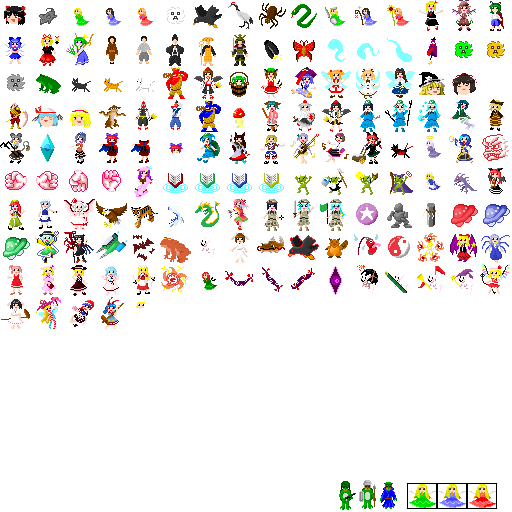
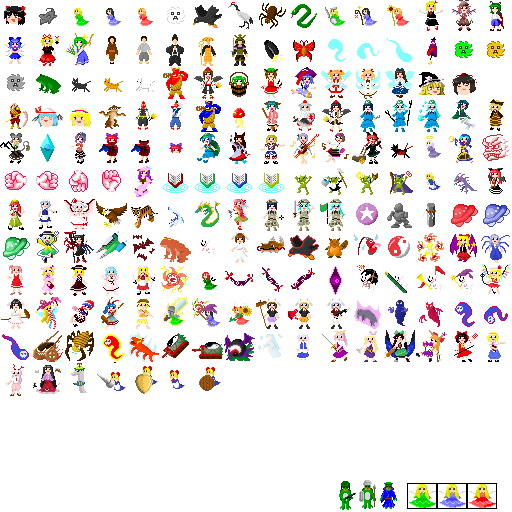
도트 이미지 추가

Changed region(s): [[0.0, 0.5625, 1.0, 0.7812]]

diff --git a/th_crawl/texture.cpp b/th_crawl/texture.cpp
@@ -281,6 +281,61 @@ textures img_mons_support_rabbit(&texture_monster01, 141, 255);
 textures img_mons_magic_rabbit(&texture_monster01, 142, 255);
 
 
+textures img_named_seiran(&texture_monster01, 147, 255);
+textures img_named_ringo(&texture_monster01, 148, 255);
+textures img_mons_fairy_green_hero(&texture_monster01, 149, 255);
+textures img_mons_fairy_green_socerer(&texture_monster01, 150, 255);
+textures img_mons_fairy_green_himawari(&texture_monster01, 151, 255);
+textures img_mons_moon_rabbit_attack(&texture_monster01, 152, 255);
+textures img_mons_moon_rabbit_supporter(&texture_monster01, 153, 255);
+textures img_mons_moon_rabbit_elite(&texture_monster01, 154, 255);
+textures img_mons_mac(&texture_monster01, 155, 255);
+textures img_mons_nightmare(&texture_monster01, 156, 255);
+textures img_mons_lunatic(&texture_monster01, 157, 255);
+textures img_mons_haunt[] = 
+{
+	textures(&texture_monster01, 158, 255),
+	textures(&texture_monster01, 159, 255),
+	textures(&texture_monster01, 160, 255)
+};
+textures img_mons_fire_car(&texture_monster01, 161, 255);
+textures img_mons_hell_spider(&texture_monster01, 162, 255);
+textures img_mons_blood_haunt(&texture_monster01, 163, 255);
+textures img_mons_hell_dog(&texture_monster01, 164, 255);
+textures img_mons_flower_tank[] = 
+{
+	textures(&texture_monster01, 165, 255),
+	textures(&texture_monster01, 166, 255)
+};
+textures img_mons_evil_eye_tank(&texture_monster01, 167, 255);
+textures img_mons_snow_girl(&texture_monster01, 168, 255);
+textures img_named_letty(&texture_monster01, 169, 255);
+textures img_named_yorihime(&texture_monster01, 170, 255);
+textures img_named_toyohime(&texture_monster01, 171, 255);
+textures img_named_utsuho(&texture_monster01, 172, 255);
+textures img_named_suika(&texture_monster01, 173, 255);
+textures img_named_reimu(&texture_monster01, 174, 255);
+textures img_named_alice(&texture_monster01, 175, 255);
+textures img_named_udonge(&texture_monster01, 176, 255);
+textures img_named_kaguya(&texture_monster01, 177, 255);
+textures img_mons_nesi(&texture_monster01, 178, 255);
+textures img_mons_sanghai[] = 
+{
+	textures(&texture_monster01, 179, 255),
+	textures(&texture_monster01, 181, 255)
+};
+textures img_mons_hourai[] = 
+{
+	textures(&texture_monster01, 180, 255),
+	textures(&texture_monster01, 182, 255)
+};
+
+
+
+
+
+
+
 textures img_named_rumia(&texture_monster01, 13, 255);
 textures img_named_mistia(&texture_monster01, 14, 255);
 textures img_named_wriggle(&texture_monster01, 15, 255);
@@ -1314,6 +1369,78 @@ int texturetoint(textures* input)
 		return 235;
 	else if(input == &img_blizzard[0])
 		return 236;
+	else if(input == &img_named_seiran)
+		return 237;
+	else if(input == &img_named_ringo)
+		return 238;
+	else if(input == &img_mons_fairy_green_hero)
+		return 239;
+	else if(input == &img_mons_fairy_green_socerer)
+		return 240;
+	else if(input == &img_mons_fairy_green_himawari)
+		return 241;
+	else if(input == &img_mons_moon_rabbit_attack)
+		return 242;
+	else if(input == &img_mons_moon_rabbit_supporter)
+		return 243;
+	else if(input == &img_mons_moon_rabbit_elite)
+		return 244;
+	else if(input == &img_mons_mac)
+		return 245;
+	else if(input == &img_mons_nightmare)
+		return 246;
+	else if(input == &img_mons_lunatic)
+		return 247;
+	else if(input == &img_mons_haunt[0])
+		return 248;
+	else if(input == &img_mons_haunt[1])
+		return 249;
+	else if(input == &img_mons_haunt[2])
+		return 250;
+	else if(input == &img_mons_fire_car)
+		return 251;
+	else if(input == &img_mons_hell_spider)
+		return 252;
+	else if(input == &img_mons_blood_haunt)
+		return 253;
+	else if(input == &img_mons_hell_dog)
+		return 254;
+	else if(input == &img_mons_flower_tank[0])
+		return 255;
+	else if(input == &img_mons_flower_tank[1])
+		return 256;
+	else if(input == &img_mons_evil_eye_tank)
+		return 257;
+	else if(input == &img_mons_snow_girl)
+		return 258;
+	else if(input == &img_named_letty)
+		return 259;
+	else if(input == &img_named_yorihime)
+		return 260;
+	else if(input == &img_named_toyohime)
+		return 261;
+	else if(input == &img_named_utsuho)
+		return 262;
+	else if(input == &img_named_suika)
+		return 263;
+	else if(input == &img_named_reimu)
+		return 264;
+	else if(input == &img_named_alice)
+		return 265;
+	else if(input == &img_named_udonge)
+		return 266;
+	else if(input == &img_named_kaguya)
+		return 267;
+	else if(input == &img_mons_nesi)
+		return 268;
+	else if(input == &img_mons_sanghai[0])
+		return 269;
+	else if(input == &img_mons_sanghai[1])
+		return 270;
+	else if(input == &img_mons_hourai[0])
+		return 271;
+	else if(input == &img_mons_hourai[1])
+		return 272;
 	else
 		return 0;
 }
@@ -1795,6 +1922,78 @@ textures* inttotexture(int input)
 		return &img_item_rune;
 	case 236:
 		return &img_blizzard[0];
+	case 237:
+		return &img_named_seiran;
+	case 238:
+		return &img_named_ringo;
+	case 239:
+		return &img_mons_fairy_green_hero;
+	case 240:
+		return &img_mons_fairy_green_socerer;
+	case 241:
+		return &img_mons_fairy_green_himawari;
+	case 242:
+		return &img_mons_moon_rabbit_attack;
+	case 243:
+		return &img_mons_moon_rabbit_supporter;
+	case 244:
+		return &img_mons_moon_rabbit_elite;
+	case 245:
+		return &img_mons_mac;
+	case 246:
+		return &img_mons_nightmare;
+	case 247:
+		return &img_mons_lunatic;
+	case 248:
+		return &img_mons_haunt[0];
+	case 249:
+		return &img_mons_haunt[1];
+	case 250:
+		return &img_mons_haunt[2];
+	case 251:
+		return &img_mons_fire_car;
+	case 252:
+		return &img_mons_hell_spider;
+	case 253:
+		return &img_mons_blood_haunt;
+	case 254:
+		return &img_mons_hell_dog;
+	case 255:
+		return &img_mons_flower_tank[0];
+	case 256:
+		return &img_mons_flower_tank[1];
+	case 257:
+		return &img_mons_evil_eye_tank;
+	case 258:
+		return &img_mons_snow_girl;
+	case 259:
+		return &img_named_letty;
+	case 260:
+		return &img_named_yorihime;
+	case 261:
+		return &img_named_toyohime;
+	case 262:
+		return &img_named_utsuho;
+	case 263:
+		return &img_named_suika;
+	case 264:
+		return &img_named_reimu;
+	case 265:
+		return &img_named_alice;
+	case 266:
+		return &img_named_udonge;
+	case 267:
+		return &img_named_kaguya;
+	case 268:
+		return &img_mons_nesi;
+	case 269:
+		return &img_mons_sanghai[0];
+	case 270:
+		return &img_mons_sanghai[1];
+	case 271:
+		return &img_mons_hourai[0];
+	case 272:
+		return &img_mons_hourai[1];
 	default:
 		return &img_mons_default;
 	}

diff --git a/th_crawl/monster_texture.h b/th_crawl/monster_texture.h
@@ -113,6 +113,26 @@ extern textures img_mons_bomb_rabbit;
 extern textures img_mons_spear_rabbit;
 extern textures img_mons_support_rabbit;
 extern textures img_mons_magic_rabbit;
+extern textures img_mons_fairy_green_hero;
+extern textures img_mons_fairy_green_socerer;
+extern textures img_mons_fairy_green_himawari;
+extern textures img_mons_moon_rabbit_attack;
+extern textures img_mons_moon_rabbit_supporter;
+extern textures img_mons_moon_rabbit_elite;
+extern textures img_mons_mac;
+extern textures img_mons_nightmare;
+extern textures img_mons_lunatic;
+extern textures img_mons_haunt[];
+extern textures img_mons_fire_car;
+extern textures img_mons_hell_spider;
+extern textures img_mons_blood_haunt;
+extern textures img_mons_hell_dog;
+extern textures img_mons_flower_tank[];
+extern textures img_mons_evil_eye_tank;
+extern textures img_mons_snow_girl;
+extern textures img_mons_sanghai[];
+extern textures img_mons_hourai[];
+extern textures img_mons_nesi;
 
 
 
@@ -175,6 +195,17 @@ extern textures img_named_clownpiece;
 extern textures img_named_doremi;
 
 
+extern textures img_named_seiran;
+extern textures img_named_ringo;
+extern textures img_named_letty;
+extern textures img_named_yorihime;
+extern textures img_named_toyohime;
+extern textures img_named_utsuho;
+extern textures img_named_suika;
+extern textures img_named_reimu;
+extern textures img_named_alice;
+extern textures img_named_udonge;
+extern textures img_named_kaguya;
 
 
 

diff --git a/th_crawl/create_item.cpp b/th_crawl/create_item.cpp
@@ -155,6 +155,7 @@ item_infor& CreateFloorItem(int floor, item_infor* item_)
 			rand_ -= (*it)->percent;
 	
 	}
+	return (*item_);
 
 }
 
